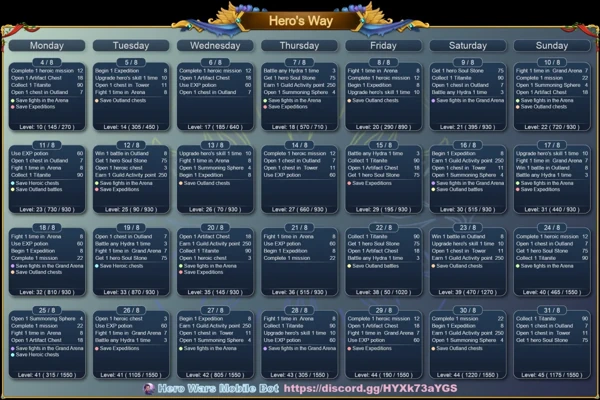
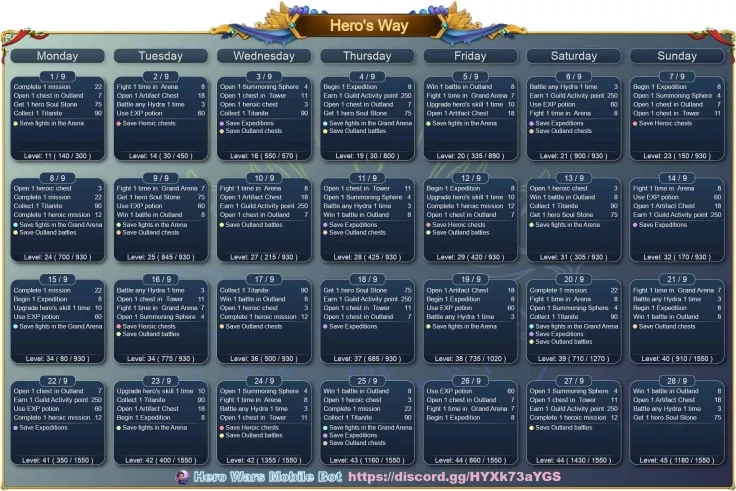
update heroes way

diff --git a/hero-wars-alliance/event-hwa/herosway-pt-hwa.html b/hero-wars-alliance/event-hwa/herosway-pt-hwa.html
@@ -5,7 +5,7 @@
 <meta http-equiv="X-UA-Compatible" content="IE=edge">
 <meta name="viewport" content="width=device-width, initial-scale=1.0">
 <meta property="article:published_time" content="2024-09-05T21:45-03:00" />
-<meta property="article:modified_time" content="2025-08-03T19:04-03:00" />
+<meta property="article:modified_time" content="2025-08-31T14:33-03:00" />
 <link rel="stylesheet" href="../../estilo13.css">
 
 <title>Lista Diária do Caminho do Herói para Jogadores de Hero Wars Alliance</title>
@@ -168,7 +168,7 @@ em ingles coloque todas as missoes do evento em html
 
     <p>O evento "Caminho do Herói" em Hero Wars oferece aos jogadores uma variedade de missões para completar diariamente. Essas tarefas são projetadas para melhorar a jogabilidade, fortalecer os heróis e ajudá-lo a ganhar recompensas valiosas, como recursos, equipamentos e melhorias para os heróis. Com duração de 30 dias, este evento apresenta novos desafios diariamente, incentivando a participação ativa em diversos aspectos do jogo, incluindo batalhas, aprimoramento de elementos e coleta de moedas valiosas dentro do jogo.</p>
 
-   <h2>Caminho do Herói de 4 de agosto a 31 de agosto</h2>
+   <h2>Caminho do Herói de 1 de setembro a 28 de setembro</h2>
 <figure class="img-banner"> 
     <picture>
         <!-- Para telas grandes (PC) de 80kb a 150kb -->

diff --git a/hero-wars-alliance/event-hwa/herosway-en-hwa.html b/hero-wars-alliance/event-hwa/herosway-en-hwa.html
@@ -7,7 +7,7 @@
 <meta name="viewport" content="width=device-width, initial-scale=1.0">
 <meta http-equiv="X-UA-Compatible" content="IE=edge">
 <meta property="article:published_time" content="2024-09-05T21:45-03:00" />
-<meta property="article:modified_time" content="025-08-03T19:04-03:00" />
+<meta property="article:modified_time" content="2025-08-31T14:33-03:00" />
 <link rel="stylesheet" href="../../estilo13.css">
 
 <title>Daily Hero's Way Checklist for Hero Wars Alliance Players</title>
@@ -167,7 +167,7 @@
 
     
    
-    <h2>Hero’s Way August 4th to August 31th</h2>
+    <h2>Hero’s Way September 1st to September 28th</h2>
 <figure class="img-banner"> 
     <picture>
         <!-- Para telas grandes (PC) de 80kb a 150kb -->
